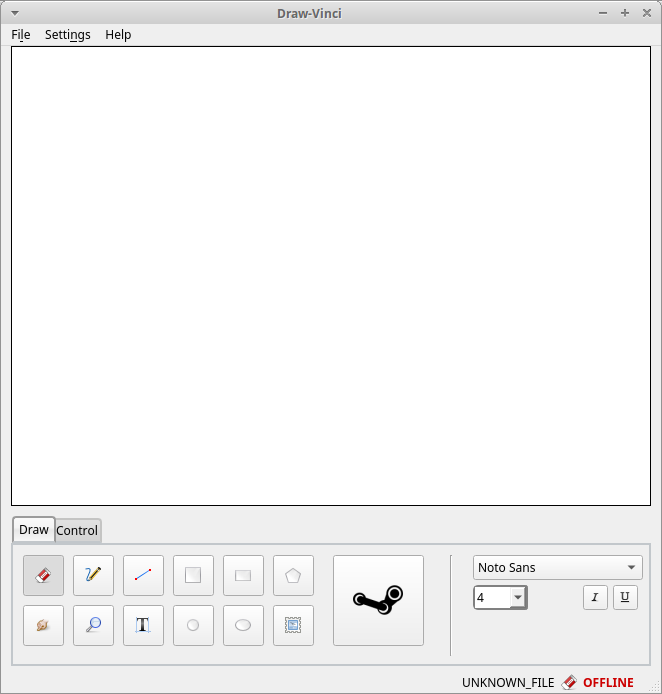
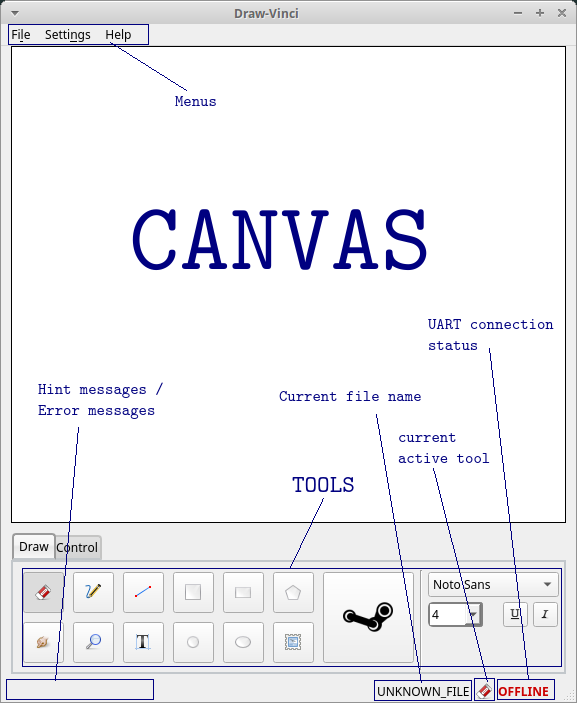
Update documentation

diff --git a/docs/Draw-Vinci.html b/docs/Draw-Vinci.html
@@ -836,6 +836,7 @@ table.CodeRay td.code>pre{padding:0}
 </li>
 <li><a href="#_gui">GUI</a>
 <ul class="sectlevel2">
+<li><a href="#_scaling_resolution">Scaling &amp; Resolution</a></li>
 <li><a href="#_functionalities">Functionalities</a></li>
 </ul>
 </li>
@@ -880,14 +881,166 @@ alternative you could devise a simple drawing application to do the same.
 <div class="sect1">
 <h2 id="_gui">GUI</h2>
 <div class="sectionbody">
-<div id="GUI" class="imageblock">
+<div id="GUI_DRAW" class="imageblock">
 <div class="content">
 <img src="img/gui_main.png" alt="gui main">
 </div>
-<div class="title">Figure 2. Main Window</div>
+<div class="title">Figure 2. Main Window with draw tab</div>
+</div>
+<div id="GUI_CTRL" class="imageblock">
+<div class="content">
+<img src="img/gui_main_ctrl.png" alt="gui main ctrl">
+</div>
+<div class="title">Figure 3. Main Window with control tab</div>
+</div>
+<div class="sect2">
+<h3 id="_scaling_resolution">Scaling &amp; Resolution</h3>
+<div class="paragraph">
+<p>Using baudrate of xxx for the spi, the following mesurements were found for the various step mode:</p>
+</div>
+<table class="tableblock frame-all grid-all spread">
+<colgroup>
+<col style="width: 25%;">
+<col style="width: 75%;">
+</colgroup>
+<tbody>
+<tr>
+<td class="tableblock halign-center valign-top"><p class="tableblock"><strong>FULL_STEP</strong></p></td>
+<td class="tableblock halign-left valign-top"><p class="tableblock"><code>(2010, 1728)</code></p></td>
+</tr>
+<tr>
+<td class="tableblock halign-center valign-top"><p class="tableblock"><strong>HALF_STEP</strong></p></td>
+<td class="tableblock halign-left valign-top"><p class="tableblock"><code>(4020, 3456)</code></p></td>
+</tr>
+<tr>
+<td class="tableblock halign-center valign-top"><p class="tableblock"><strong>QUARTER_STEP</strong></p></td>
+<td class="tableblock halign-left valign-top"><p class="tableblock"><code>(8035, 6907)</code></p></td>
+</tr>
+<tr>
+<td class="tableblock halign-center valign-top"><p class="tableblock"><strong>EIGHTH_STEP</strong></p></td>
+<td class="tableblock halign-left valign-top"><p class="tableblock"><code>(16061, 13806)</code></p></td>
+</tr>
+<tr>
+<td class="tableblock halign-center valign-top"><p class="tableblock"><strong>SIXTEENTH_STEP</strong></p></td>
+<td class="tableblock halign-left valign-top"><p class="tableblock"><code>(32107, 27607)</code></p></td>
+</tr>
+</tbody>
+</table>
+<div class="paragraph">
+<p>The ratio of steps measured is ~1,1633, i.e. HEIGHT_STEP = ~0,86*WIDTH_STEP. The canvas where the user can draw something has the dimension: 555px X 477px,
+accounting for a ratio of ~1,1635.</p>
+</div>
+<div class="paragraph">
+<p>In effect, every point (x, y) in canvas, will be scaled as follows:</p>
+</div>
+<div class="ulist">
+<ul>
+<li>
+<p>x_to_plot = x . (WIDTH_STEP/CANVAS_WIDTH)</p>
+</li>
+<li>
+<p>y_to_plot = y . (WIDTH_STEP/CANVAS_WIDTH)</p>
+</li>
+</ul>
+</div>
+<div class="paragraph">
+<p>so that for the point (0, 0) in GUI, the plotter will receive (0, 0) and
+for the point 555,477, the plotter will receive (WIDTH_STEP, ~0,86*WIDTH_STEP).</p>
+</div>
 </div>
 <div class="sect2">
 <h3 id="_functionalities">Functionalities</h3>
+<div class="dlist">
+<dl>
+<dt class="hdlist1">Key Combinations</dt>
+<dd>
+<div class="dlist">
+<dl>
+<dt class="hdlist1">Ctrl+N</dt>
+<dd>
+<p>Clear canvas for new work.</p>
+</dd>
+<dt class="hdlist1">Ctrl+O</dt>
+<dd>
+<p>Opens new SVG file.</p>
+</dd>
+<dt class="hdlist1">Ctrl+S</dt>
+<dd>
+<p>Save current canvas.</p>
+</dd>
+<dt class="hdlist1">Ctrl+Shift+S</dt>
+<dd>
+<p>Save current canvas with a new name.</p>
+</dd>
+<dt class="hdlist1">Ctrl+?</dt>
+<dd>
+<p>Opens about dialog.</p>
+</dd>
+<dt class="hdlist1">Ctrl+Z</dt>
+<dd>
+<p>Remove last added item from canvas.</p>
+</dd>
+<dt class="hdlist1">Del</dt>
+<dd>
+<p>Remove selected item from canvas.</p>
+</dd>
+</dl>
+</div>
+</dd>
+</dl>
+</div>
+<div class="sect3">
+<h4 id="_menus">Menus</h4>
+<div class="olist arabic">
+<ol class="arabic">
+<li>
+<p><strong>File</strong></p>
+<div class="olist loweralpha">
+<ol class="loweralpha" type="a">
+<li>
+<p>New: clean canvas and start new project.</p>
+</li>
+<li>
+<p>Open: opens a svg file.</p>
+</li>
+<li>
+<p>Save: saves canvas to already saved file or calls save as if still not saved.</p>
+</li>
+<li>
+<p>Save As: saves canvas with a new name.</p>
+</li>
+<li>
+<p>Quit: closes app.</p>
+</li>
+</ol>
+</div>
+</li>
+<li>
+<p><strong>Settings</strong></p>
+<div class="olist loweralpha">
+<ol class="loweralpha" type="a">
+<li>
+<p>Svg Directory: define the directory to import the svg&#8217;s from when using the import tool.</p>
+</li>
+<li>
+<p>Step Motor: define the step resolution, according to section 'Scaling &amp; Resolution'.</p>
+</li>
+</ol>
+</div>
+</li>
+<li>
+<p><strong>Help</strong></p>
+<div class="olist loweralpha">
+<ol class="loweralpha" type="a">
+<li>
+<p>About: basic info about this app.</p>
+</li>
+</ol>
+</div>
+</li>
+</ol>
+</div>
+</div>
 <div class="sect3">
 <h4 id="_draw_tab">Draw Tab</h4>
 <div class="sect4">
@@ -949,45 +1102,6 @@ the mouse, the user can zoom out completely to the default scale.</code></p></td
 </tr>
 </tbody>
 </table>
-<div class="dlist">
-<dl>
-<dt class="hdlist1">Key Combinations</dt>
-<dd>
-<div class="dlist">
-<dl>
-<dt class="hdlist1">Ctrl+N</dt>
-<dd>
-<p>Clear canvas for new work.</p>
-</dd>
-<dt class="hdlist1">Ctrl+O</dt>
-<dd>
-<p>Opens new SVG file.</p>
-</dd>
-<dt class="hdlist1">Ctrl+S</dt>
-<dd>
-<p>Save current canvas.</p>
-</dd>
-<dt class="hdlist1">Ctrl+Shift+S</dt>
-<dd>
-<p>Save current canvas with a new name.</p>
-</dd>
-<dt class="hdlist1">Ctrl+?</dt>
-<dd>
-<p>Opens about dialog.</p>
-</dd>
-<dt class="hdlist1">Ctrl+Z</dt>
-<dd>
-<p>Remove last added item from canvas.</p>
-</dd>
-<dt class="hdlist1">Del</dt>
-<dd>
-<p>Remove selected item from canvas.</p>
-</dd>
-</dl>
-</div>
-</dd>
-</dl>
-</div>
 </div>
 </div>
 <div class="sect3">
@@ -1002,7 +1116,7 @@ the mouse, the user can zoom out completely to the default scale.</code></p></td
 <dl>
 <dt class="hdlist1">Terminal</dt>
 <dd>
-<p>Say something about terminal</p>
+<p>Terminal displays the messages sent within manual mode onto xmc4500. Besides, it always display the incoming messages from xmc4500.</p>
 </dd>
 </dl>
 </div>
@@ -1020,12 +1134,14 @@ the mouse, the user can zoom out completely to the default scale.</code></p></td
 <dl>
 <dt class="hdlist1">Directional &amp; Pen Buttons</dt>
 <dd>
-<p>Say something about manual mode</p>
+<p>In this mode one can use the directional and pen buttons to control the plotter.</p>
 </dd>
 <dt class="hdlist1">Auto</dt>
 <dt class="hdlist1">Flow Control Buttons</dt>
 <dd>
-<p>Say something about auto mode</p>
+<p>In this mode one can generate g-code automatically when pressing the play  button. A progress bar will show the progress of the plotting. Using the pause
+button, the user can always pause the current plotting and use the flow control buttons to step through the g-code commands and plot the next or previous
+commands.</p>
 </dd>
 </dl>
 </div>
@@ -1103,6 +1219,10 @@ Your browser does not support the video tag.
 <td class="tableblock halign-center valign-top"><p class="tableblock"><strong>text</strong></p></td>
 <td class="tableblock halign-left valign-top"><p class="tableblock"><code>Texts</code></p></td>
 </tr>
+<tr>
+<td class="tableblock halign-center valign-top"><p class="tableblock"><strong>transform</strong></p></td>
+<td class="tableblock halign-left valign-top"><p class="tableblock"><code>Just the translation matrix is supported til now</code></p></td>
+</tr>
 </tbody>
 </table>
 <div class="admonitionblock note">
@@ -1132,7 +1252,7 @@ Your browser does not support the video tag.
 <div class="content">
 <img src="img/frame.png" alt="Frame of Protocol">
 </div>
-<div class="title">Figure 3. Protocol Frame</div>
+<div class="title">Figure 4. Protocol Frame</div>
 </div>
 <div class="paragraph">
 <p>Where:</p>
@@ -1186,10 +1306,6 @@ Your browser does not support the video tag.
 <td class="tableblock halign-left valign-top"><p class="tableblock"><code>Perform homing routine</code></p></td>
 </tr>
 <tr>
-<td class="tableblock halign-center valign-top"><p class="tableblock"><strong>G00</strong></p></td>
-<td class="tableblock halign-left valign-top"><p class="tableblock"><code>Rapid positioning</code></p></td>
-</tr>
-<tr>
 <td class="tableblock halign-center valign-top"><p class="tableblock"><strong>G90</strong></p></td>
 <td class="tableblock halign-left valign-top"><p class="tableblock"><code>Absolute mode positioning</code></p></td>
 </tr>
@@ -1216,9 +1332,6 @@ Your browser does not support the video tag.
 <p>#G28$             : Plotter will move to the top-left side.</p>
 </li>
 <li>
-<p>#G00:XA:YB$       : Plotter will move to the spot (A, B) as fast as reasonable.</p>
-</li>
-<li>
 <p>#G90$             : Plotter will interprete all subsequent commands as absolute movements.</p>
 </li>
 <li>
@@ -1242,7 +1355,7 @@ Your browser does not support the video tag.
 <div class="content">
 <img src="img/portErrorsTable.png" alt="portErrorsTable">
 </div>
-<div class="title">Figure 4. Possible errors codes by connection</div>
+<div class="title">Figure 5. Possible errors codes by connection</div>
 </div>
 </div>
 <div class="sect2">
@@ -1449,13 +1562,29 @@ Your browser does not support the video tag.
 </dd>
 </dl>
 </div>
+<div class="paragraph">
+<p>To build the firmware for the xmc4500:</p>
+</div>
+<div class="literalblock">
+<div class="content">
+<pre>Inside the project directory go to: ./xmc4500/APP/ and call 'make flash'</pre>
+</div>
+</div>
+<div class="paragraph">
+<p>to run the app:</p>
+</div>
+<div class="literalblock">
+<div class="content">
+<pre>Inside the project directory go to: ./gui/ and call 'python3 app.py'</pre>
+</div>
+</div>
 </div>
 </div>
 </div>
 </div>
 <div id="footer">
 <div id="footer-text">
-Last updated 2018-05-25 13:49:56 CEST
+Last updated 2018-06-08 12:43:10 CEST
 </div>
 </div>
 </body>
